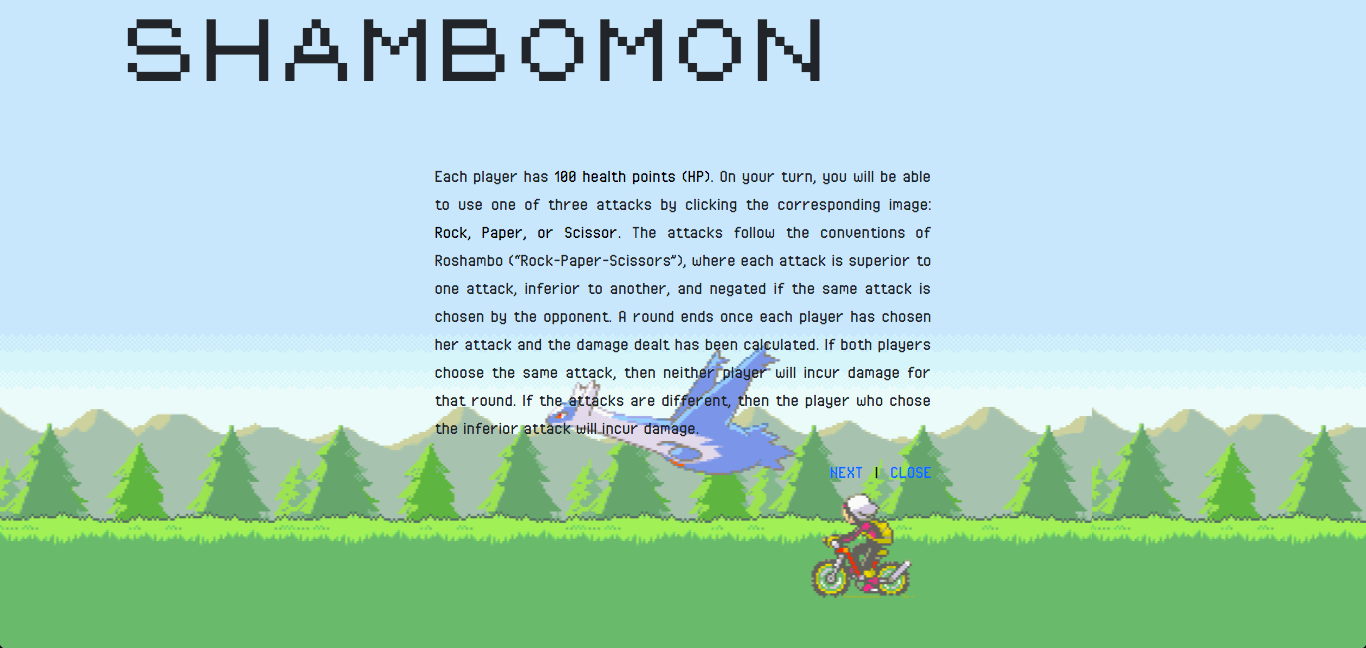
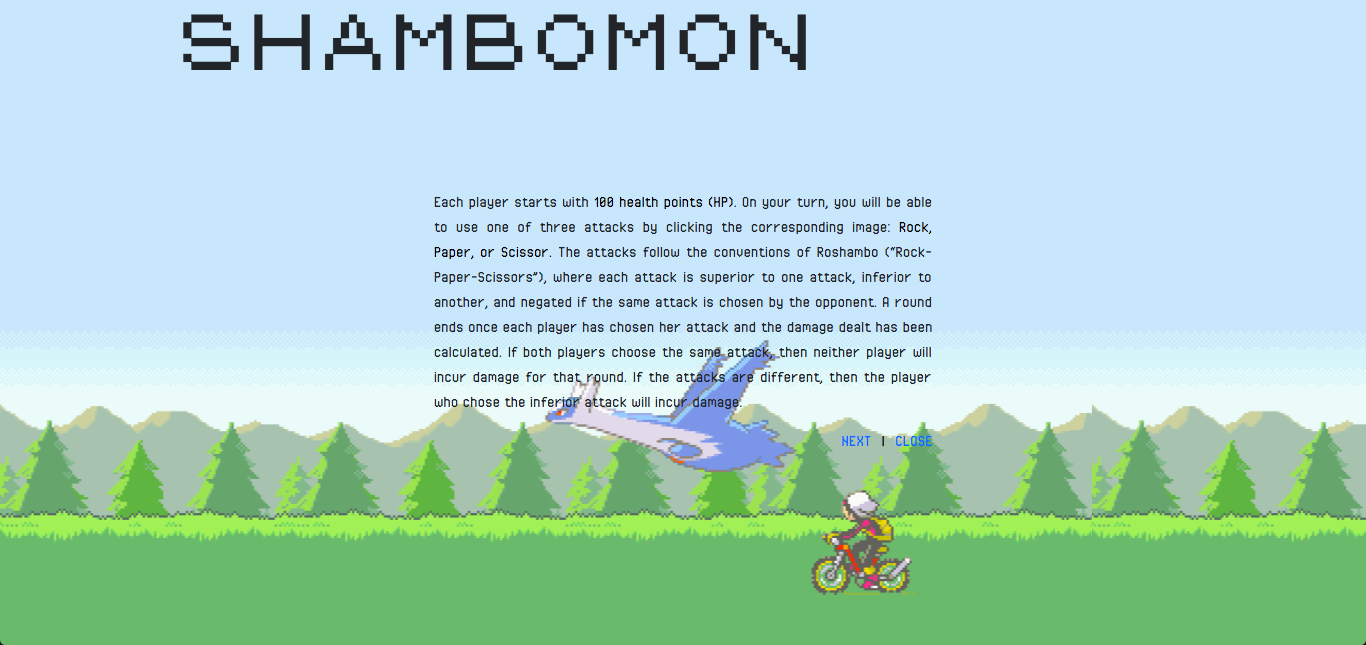
Updated README screenshots

diff --git a/README.md b/README.md
@@ -19,9 +19,10 @@ Users can use the "How to Play" link to open the help pages and learn how to
 play. 
 ![index help page 1](screenshots/index-help-pg-1.png) 
 ![index help page 2](screenshots/index-help-pg-2.png) 
+![index help page 3](screenshots/index-help-pg-3.png) 
 
 If users do not have an account, they can use the "Register" link to create one. 
-This will redirect them to a registration form. 
+This link will redirect them to a registration form. 
 ![registration form](screenshots/registration.png) 
 
 After logging in, users will be prompted for a game name. Two users who enter 
@@ -31,7 +32,8 @@ the same game name will be placed in the same game to play against each other.
 There are 12 different Pokémon to choose from. 
 ![character selection page](screenshots/character-selection.png) 
 
-If the room does not have two players yet, users will see a "Waiting" message. 
+If the room does not have two players yet, users will see a "Waiting" message 
+after selecting their Pokémon. 
 ![waiting page](screenshots/waiting.png) 
 
 ## Gameplay 
@@ -42,16 +44,23 @@ Players take turns playing multiple rounds of Roshambo, using the attack buttons
 in the bottom-right. The HP bars will change color as a player's HP goes down. 
 The sidebar to the left records the attacks chosen and damage taken for each 
 round. 
-![battlefield page mid-game](screenshots/mid-game.png) 
+![battlefield page mid-game](screenshots/battlefield-mid-game.png) 
+
+Once per game, players can activate their special attack by clicking the "Star" 
+attack button. Upon doing so, they will be asked to choose a default attack. If 
+the attack is successful, the player will be able to deal 40 damage to her 
+opponent. 
+![battlefield page special attack](screenshots/battlefield-special.png) 
 
 The message in the middle indicates whose turn it is. If users try to join a 
 game that is already full, the message will indicate that they are spectating. 
 Spectators can watch the game in real-time but are not allowed to play. 
-![battlefield page for spectators](screenshots/spectator.png) 
+![battlefield page for spectators](screenshots/battlefield-spectator.png) 
 
 Players can use the "Help" link in the top-right to toggle the help pages. 
 ![in-game help page 1](screenshots/battlefield-help-pg-1.png) 
 ![in-game help page 2](screenshots/battlefield-help-pg-2.png) 
+![in-game help page 3](screenshots/battlefield-help-pg-3.png) 
 
 Once the game ends, players will see a message indicating whether or not they 
 have won. 
